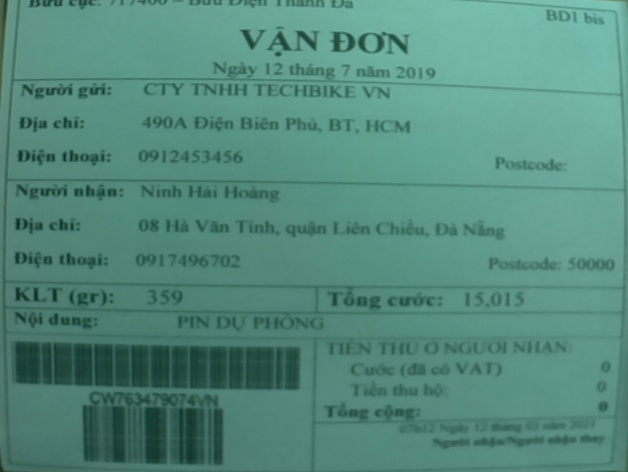
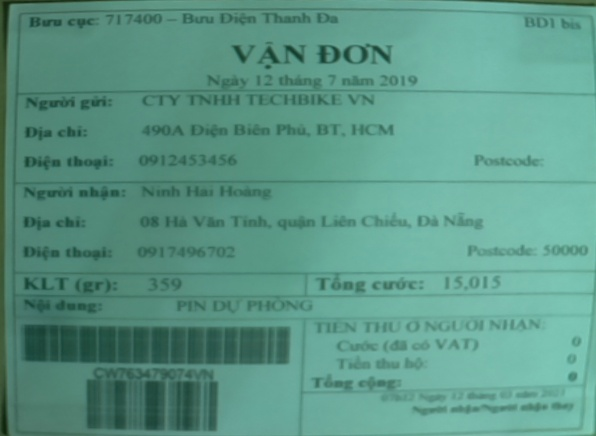
-

diff --git a/Source/TextScanner.py b/Source/TextScanner.py
@@ -20,7 +20,7 @@ class camThread(threading.Thread):
         camPreview(self.previewName, self.camID)
 
 
-#Đưa ảnh về màu xám để xử lý
+# Xử lý ảnh
 def camProcessing(img):
     imgGray = cv2.cvtColor(img, cv2.COLOR_BGR2GRAY)
     imgBlur = cv2.GaussianBlur(imgGray, (7, 7), 1)
@@ -30,7 +30,7 @@ def camProcessing(img):
     imgErode = cv2.erode(imgDialation, kernel, iterations=1)
     return imgErode
 
-#Tìm tọa độ 4 điểm
+
 def getContours(imgThres, imgContour):
     biggest = np.array([])
     maxArea = 0
@@ -50,7 +50,7 @@ def getContours(imgThres, imgContour):
         drawRectangle(imgContour, biggest, 2)
     return biggest
 
-#Tìm 4 điểm trên ảnh
+
 def reorder(myPoints):
     myPoints = myPoints.reshape((4, 2))
     myPointsNew = np.zeros((4, 1, 2), dtype=np.int32)
@@ -64,7 +64,7 @@ def reorder(myPoints):
 
     return myPointsNew
 
-#Cắt ảnh 
+
 def getWrap(img, biggest):
     biggest = reorder(biggest)
     #h, w, c = img.shape
@@ -95,7 +95,7 @@ def getWrap(img, biggest):
     return imgCrop
 
 ####################DrawReactangle############################
-#Nối 4 điểm lại với nhau
+
 def drawRectangle(img, biggest, thickness):
     #[0][0][0], [0][0][1]  :A
     #[1][0][0], [1][0][1]  :D
@@ -116,19 +116,19 @@ def camPreview(previewName, camID):
     cv2.namedWindow(previewName)
     cam = cv2.VideoCapture(camID)
     if cam.isOpened():  # try to get the first frame
-        success, img = cam.read()                   #img -> ảnh lúc chưa qua xử lý
-        imgThres = camProcessing(img)               #imgThres -> ảnh sau khi đã được đưa về màu xám
+        success, img = cam.read()
+        imgThres = camProcessing(img)
         # biggest = getContours(imgThres, img)
     else:
         success = False
 
     while success:
-        cv2.imshow(previewName, imgThres)           
-        success, img = cam.read()                   #img -> ảnh lúc chưa qua xử lý
+        cv2.imshow(previewName, imgThres)
+        success, img = cam.read() 
         # img = cv2.resize(img, (widthImg, heightImg))
         imgContour = img.copy()
-        imgThres = camProcessing(imgContour)        #imgThres -> ảnh sau khi đã được đưa về màu xám
-        biggest = getContours(imgThres, imgContour) #Lấy 4 điểm từ imgThes, vẽ 4 điểm (nếu có)
+        imgThres = camProcessing(imgContour)
+        biggest = getContours(imgThres, imgContour)
 
         cv2.imshow(previewName, imgContour)
         key = cv2.waitKey(20)
@@ -144,14 +144,12 @@ def camPreview(previewName, camID):
                 #cv2.imwrite("filename1.jpg", imgThres) 
             #else:
                 #pass
-                
-        #Nếu phát hiện có 4 điểm thì tiến hành cắt ảnh và lưu ảnh
+        
         if biggest.size != 0:
-            cv2.imshow("Picture", imgContour)       #show ảnh chưa qua xử lý
+            imgWraped = getWrap(img, biggest)
             
-            imgWraped = getWrap(img, biggest)       #imgWraped -> ảnh sau khi cắt
-            
-            cv2.imwrite("filename1.jpg", imgWraped) #lưu ảnh sau khi cắt
+            cv2.imshow("Picture", imgWraped)
+            cv2.imwrite("filename1.jpg", imgWraped)
         else : pass 
         if key == 27:  # exit on ESC
             break

diff --git a/Source/read_vie.py b/Source/read_vie.py
@@ -8,7 +8,7 @@ import re
 data={"khu vực": "", "người nhận": "", "số điện thoại": "", "tiền thu hộ": "", "địa chỉ": "", "nội dung": ""}
 def khuVucHang():
     #############################Version 2#########################
-    img = cv2.imread("/home/pi/Desktop/PBL/PBL5_TextDetection/Image/don2.png")
+    img = cv2.imread("/home/pi/Desktop/PBL/PBL5_TextDetection/Source/filename1.jpg")
     rgb = cv2.cvtColor(img, cv2.COLOR_BGR2RGB)
     text = pytesseract.image_to_string(rgb, lang="vie")
 
@@ -47,19 +47,19 @@ def khuVucHang():
         tienThuHo=txt.find("tiền thu hộ")
         trongLuong=txt.find("trọng lượng")
         if diaChi != -1:
-            data["người nhận"]=txt[nguoiNhan:diaChi]
+            data["người nhận"]=txt[nguoiNhan:diaChi].strip()
         if dienThoai!=-1 and diaChi != -1:
             diaChi=diaChi+8
-            data["địa chỉ"]=txt[diaChi:dienThoai]
+            data["địa chỉ"]=txt[diaChi:dienThoai].strip()
         if dienThoai!=-1 and noiDung != -1:
             dienThoai=dienThoai+11
-            data["số điện thoại"]=txt[dienThoai:noiDung]
+            data["số điện thoại"]=txt[dienThoai:noiDung].strip()
         if noiDung!=-1 and tienThuHo != -1:
             noiDung=noiDung+9
-            data["nội dung"]=txt[noiDung:tienThuHo]
+            data["nội dung"]=txt[noiDung:tienThuHo].strip()
         if tienThuHo!=-1 and trongLuong != -1:
             tienThuHo=tienThuHo+12
-            data["tiền thu hộ"]=txt[tienThuHo:trongLuong]
+            data["tiền thu hộ"]=txt[tienThuHo:trongLuong].strip()
             
     else:
         for x in quan:
@@ -74,11 +74,8 @@ def khuVucHang():
                     data["khu vực"]= x
                     break
     
-    
             
 khuVucHang()
-for i in data.values() :
-    i.strip()
 print(data)
 
 

diff --git a/Source/demo_26_04_2021.py b/Source/demo_26_04_2021.py
@@ -8,8 +8,8 @@ import TextScanner
 import read_vie
 
 pwm1 = pwmio.PWMOut(board.D23, duty_cycle=2 ** 15, frequency=50)
-pwm2 = pwmio.PWMOut(board.D25, duty_cycle=2 ** 15, frequency=50)
-pwm3 = pwmio.PWMOut(board.D24, duty_cycle=2 ** 15, frequency=50)
+pwm2 = pwmio.PWMOut(board.D24, duty_cycle=2 ** 15, frequency=50)
+pwm3 = pwmio.PWMOut(board.D25, duty_cycle=2 ** 15, frequency=50)
 
 
 def VatCan():
